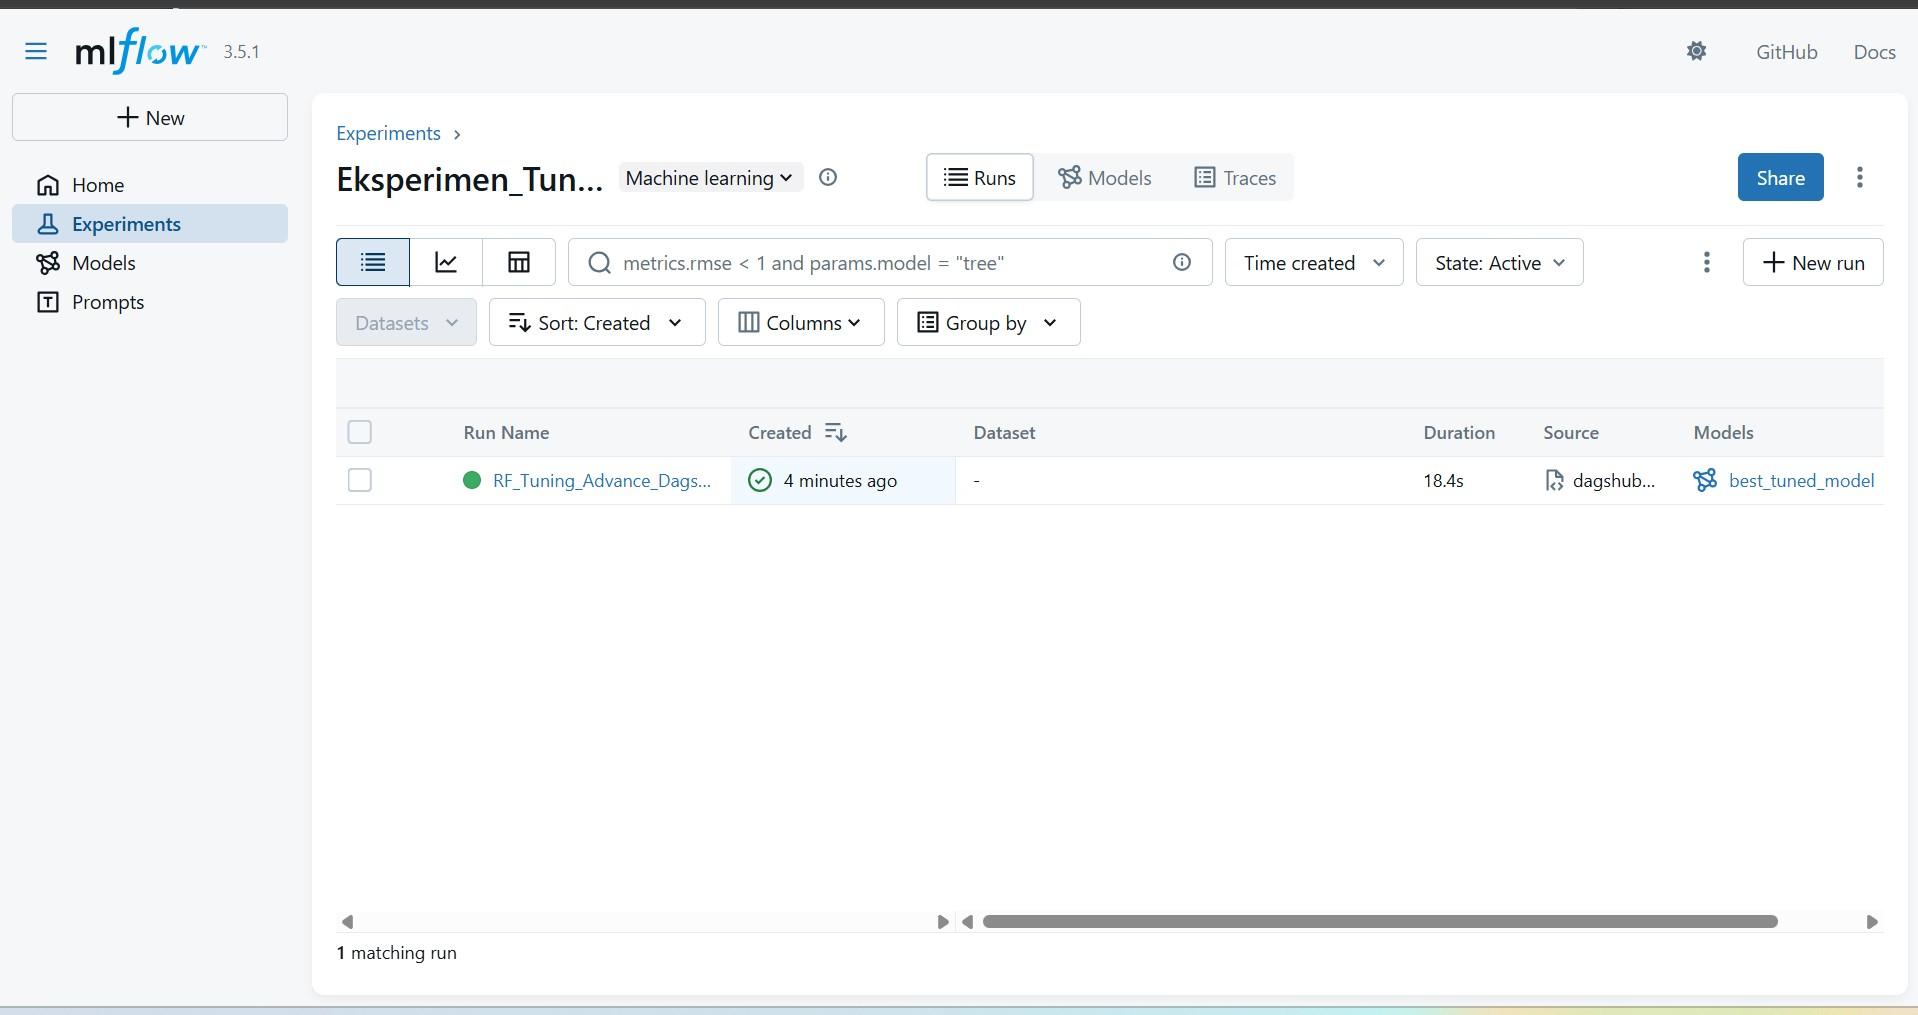
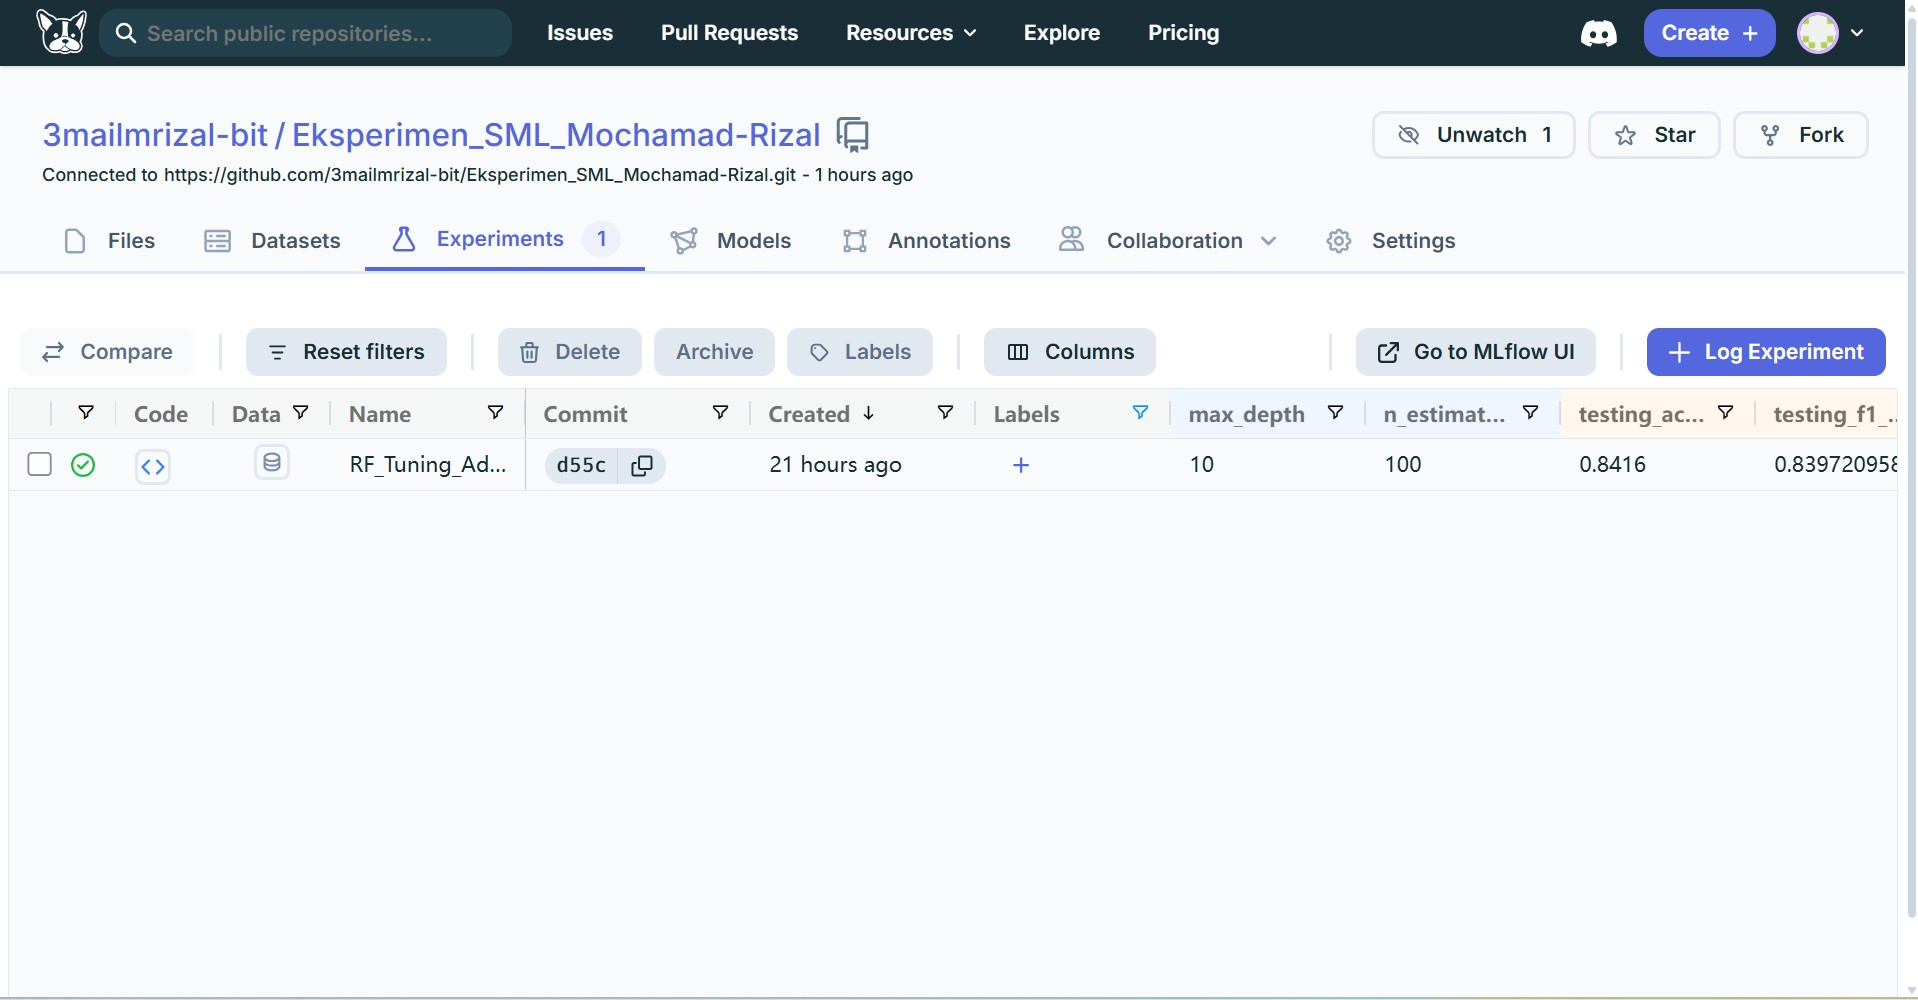
upload all

diff --git a/Monitoring_dan_logging/prometheus_exporter.py b/Monitoring_dan_logging/prometheus_exporter.py
@@ -1,0 +1,125 @@
+import time
+import random
+from prometheus_client import start_http_server, Counter, Gauge, Histogram, Summary
+
+# ==============================================================================
+# DEFINISI 10 METRIKS UNTUK KRITERIA ADVANCE (4 PTS)
+# ==============================================================================
+
+# 1. Counter: Total request prediksi yang masuk
+PREDICTION_REQUESTS = Counter(
+    'model_prediction_requests_total', 
+    'Total number of prediction requests received'
+)
+
+# 2. Counter: Total sukses prediksi
+PREDICTION_SUCCESS = Counter(
+    'model_prediction_success_total', 
+    'Total number of successful predictions'
+)
+
+# 3. Counter: Total error/gagal prediksi
+PREDICTION_ERRORS = Counter(
+    'model_prediction_errors_total', 
+    'Total number of prediction errors'
+)
+
+# 4. Gauge: Status keaktifan model (1 = Aktif, 0 = Mati)
+MODEL_STATUS = Gauge(
+    'model_status_active', 
+    'Current status of the model serving instance (1 for active)'
+)
+
+# 5. Gauge: Penggunaan Memori simulasi (dalam MB)
+MEMORY_USAGE = Gauge(
+    'model_memory_usage_megabytes', 
+    'Simulated memory usage of the model instance in MB'
+)
+
+# 6. Gauge: Penggunaan CPU simulasi (dalam persen)
+CPU_USAGE = Gauge(
+    'model_cpu_usage_percentage', 
+    'Simulated CPU usage percentage of the model instance'
+)
+
+# 7. Histogram: Latensi / Waktu pemrosesan prediksi
+PREDICTION_LATENCY = Histogram(
+    'model_prediction_latency_seconds', 
+    'Time taken to process prediction request',
+    buckets=[0.01, 0.05, 0.1, 0.5, 1.0, 2.0, 5.0]
+)
+
+# 8. Summary: Ukuran data input (misal jumlah fitur atau panjang string)
+INPUT_DATA_SIZE = Summary(
+    'model_input_data_size_bytes', 
+    'Summary of input data size processed'
+)
+
+# 9. Gauge: Nilai rata-rata probabilitas/skor prediksi terbaru
+LATEST_PREDICTION_SCORE = Gauge(
+    'model_latest_prediction_score', 
+    'The prediction score/probability of the latest inference request'
+)
+
+# 10. Counter: Total deteksi anomali atau data out-of-bounds
+OUT_OF_BOUNDS_INPUTS = Counter(
+    'model_out_of_bounds_inputs_total', 
+    'Total number of input features that fall outside expected bounds'
+)
+
+# ==============================================================================
+# FUNGSI SIMULASI JALANNYA MODEL
+# ==============================================================================
+def process_prediction_simulated():
+    # Set status model aktif
+    MODEL_STATUS.set(1)
+    
+    # Simulasi penggunaan resource sistem
+    MEMORY_USAGE.set(random.uniform(150.0, 250.0))  # Antara 150MB - 250MB
+    CPU_USAGE.set(random.uniform(5.0, 45.0))       # Antara 5% - 45%
+
+    # Mulai hitung latensi
+    start_time = time.time()
+    
+    PREDICTION_REQUESTS.inc()
+    
+    try:
+        # Simulasi waktu komputasi model (latensi)
+        processing_time = random.uniform(0.02, 0.4)
+        time.sleep(processing_time)
+        
+        # Simulasi ukuran data input
+        INPUT_DATA_SIZE.observe(random.randint(50, 500))
+        
+        # Simulasi hasil score prediksi model (misal probabilitas 0.0 - 1.0)
+        score = random.uniform(0.1, 0.99)
+        LATEST_PREDICTION_SCORE.set(score)
+        
+        # Simulasi jika ada input yang aneh / out of bounds (probabilitas kecil)
+        if random.random() > 0.95:
+            OUT_OF_BOUNDS_INPUTS.inc()
+            
+        # Simulasi error acak (misal 2% kemungkinan error)
+        if random.random() < 0.02:
+            raise Exception("Simulated Model Inference Timeout")
+            
+        PREDICTION_SUCCESS.inc()
+        
+    except Exception as e:
+        PREDICTION_ERRORS.inc()
+        print(f"Error encountered: {e}")
+        
+    finally:
+        # Catat durasi pemrosesan ke histogram
+        duration = time.time() - start_time
+        PREDICTION_LATENCY.observe(duration)
+
+if __name__ == '__main__':
+    # Jalankan server exporter di port 8000
+    print("Starting Prometheus Exporter on port 8000...")
+    start_http_server(8000)
+    
+    # Loop terus-menerus untuk memperbarui data metrik secara dinamis
+    while True:
+        process_prediction_simulated()
+        time.sleep(2)  # Simulasi request datang setiap 2 detik

diff --git a/Monitoring_dan_logging/inference.py b/Monitoring_dan_logging/inference.py
@@ -1,0 +1,81 @@
+import json
+import requests
+
+# ============================================
+# KONFIGURASI
+# ============================================
+# Ganti port jika Anda menjalankan di port lain (misal 5000)
+URL_MODEL = "http://127.0.0.1:5002/invocations"
+
+# ============================================
+# DATA DUMMY (Sesuai dengan 20 Fitur Model Anda)
+# ============================================
+# Kita hardcode datanya agar tidak perlu baca CSV eksternal.
+# Pastikan nilai-nilai ini masuk akal (numerik, karena CSV preprocessing sudah di-encode).
+sample_data = {
+    "Age": 32,
+    "Occupation": 1,                     # Sudah di-encode (misal: 1 = Engineer)
+    "Annual_Income": 8500000,
+    "Monthly_Inhand_Salary": 700000,
+    "Num_Bank_Accounts": 3,
+    "Num_Credit_Card": 2,
+    "Interest_Rate": 5.5,
+    "Num_of_Loan": 1,
+    "Delay_from_due_date": 10,
+    "Num_of_Delayed_Payment": 2,
+    "Num_Credit_Inquiries": 5,
+    "Outstanding_Debt": 10000,
+    "Credit_Utilization_Ratio": 30.5,
+    "Credit_History_Age": 120,
+    "Payment_of_Min_Amount": 100,
+    "Total_EMI_per_month": 500,
+    "Amount_invested_monthly": 1000,
+    "Payment_Behaviour": 2,              # Sudah di-encode
+    "Monthly_Balance": 2000,
+    "Delay_Group": 1                     # Sudah di-encode
+}
+
+def predict_credit(input_data):
+    """Fungsi untuk mengirim data ke model MLflow"""
+    
+    # Format payload untuk MLflow (dataframe_records adalah yang paling aman)
+    payload = {"dataframe_records": [input_data]}
+    headers = {"Content-Type": "application/json"}
+
+    print(f"🚀 Mengirim data ke {URL_MODEL}...")
+
+    try:
+        response = requests.post(
+            URL_MODEL, 
+            data=json.dumps(payload), 
+            headers=headers,
+            timeout=10
+        )
+
+        if response.status_code == 200:
+            hasil = response.json()
+            print("✅ Koneksi ke Model Sukses!")
+            return hasil
+        else:
+            print(f"❌ Model merespon Error! Kode: {response.status_code}")
+            print(f"Pesan: {response.text}")
+            return None
+
+    except requests.exceptions.ConnectionError:
+        print("❌ Gagal terhubung! Pastikan model sudah di-serve (mlflow models serve).")
+        return None
+
+if __name__ == "__main__":
+    print("=== PENGUJIAN INFERENCE MODEL ===")
+    
+    # Jalankan prediksi
+    hasil = predict_credit(sample_data)
+
+    # Tampilkan hasil
+    if hasil is not None:
+        print("\n--- HASIL PREDIKSI ---")
+        print(f"Respon Mentah: {hasil}")
+        
+        if "predictions" in hasil:
+            prediksi = hasil["predictions"][0]
+            print(f"🎯 Nilai Prediksi (Credit_Mix): {prediksi}")